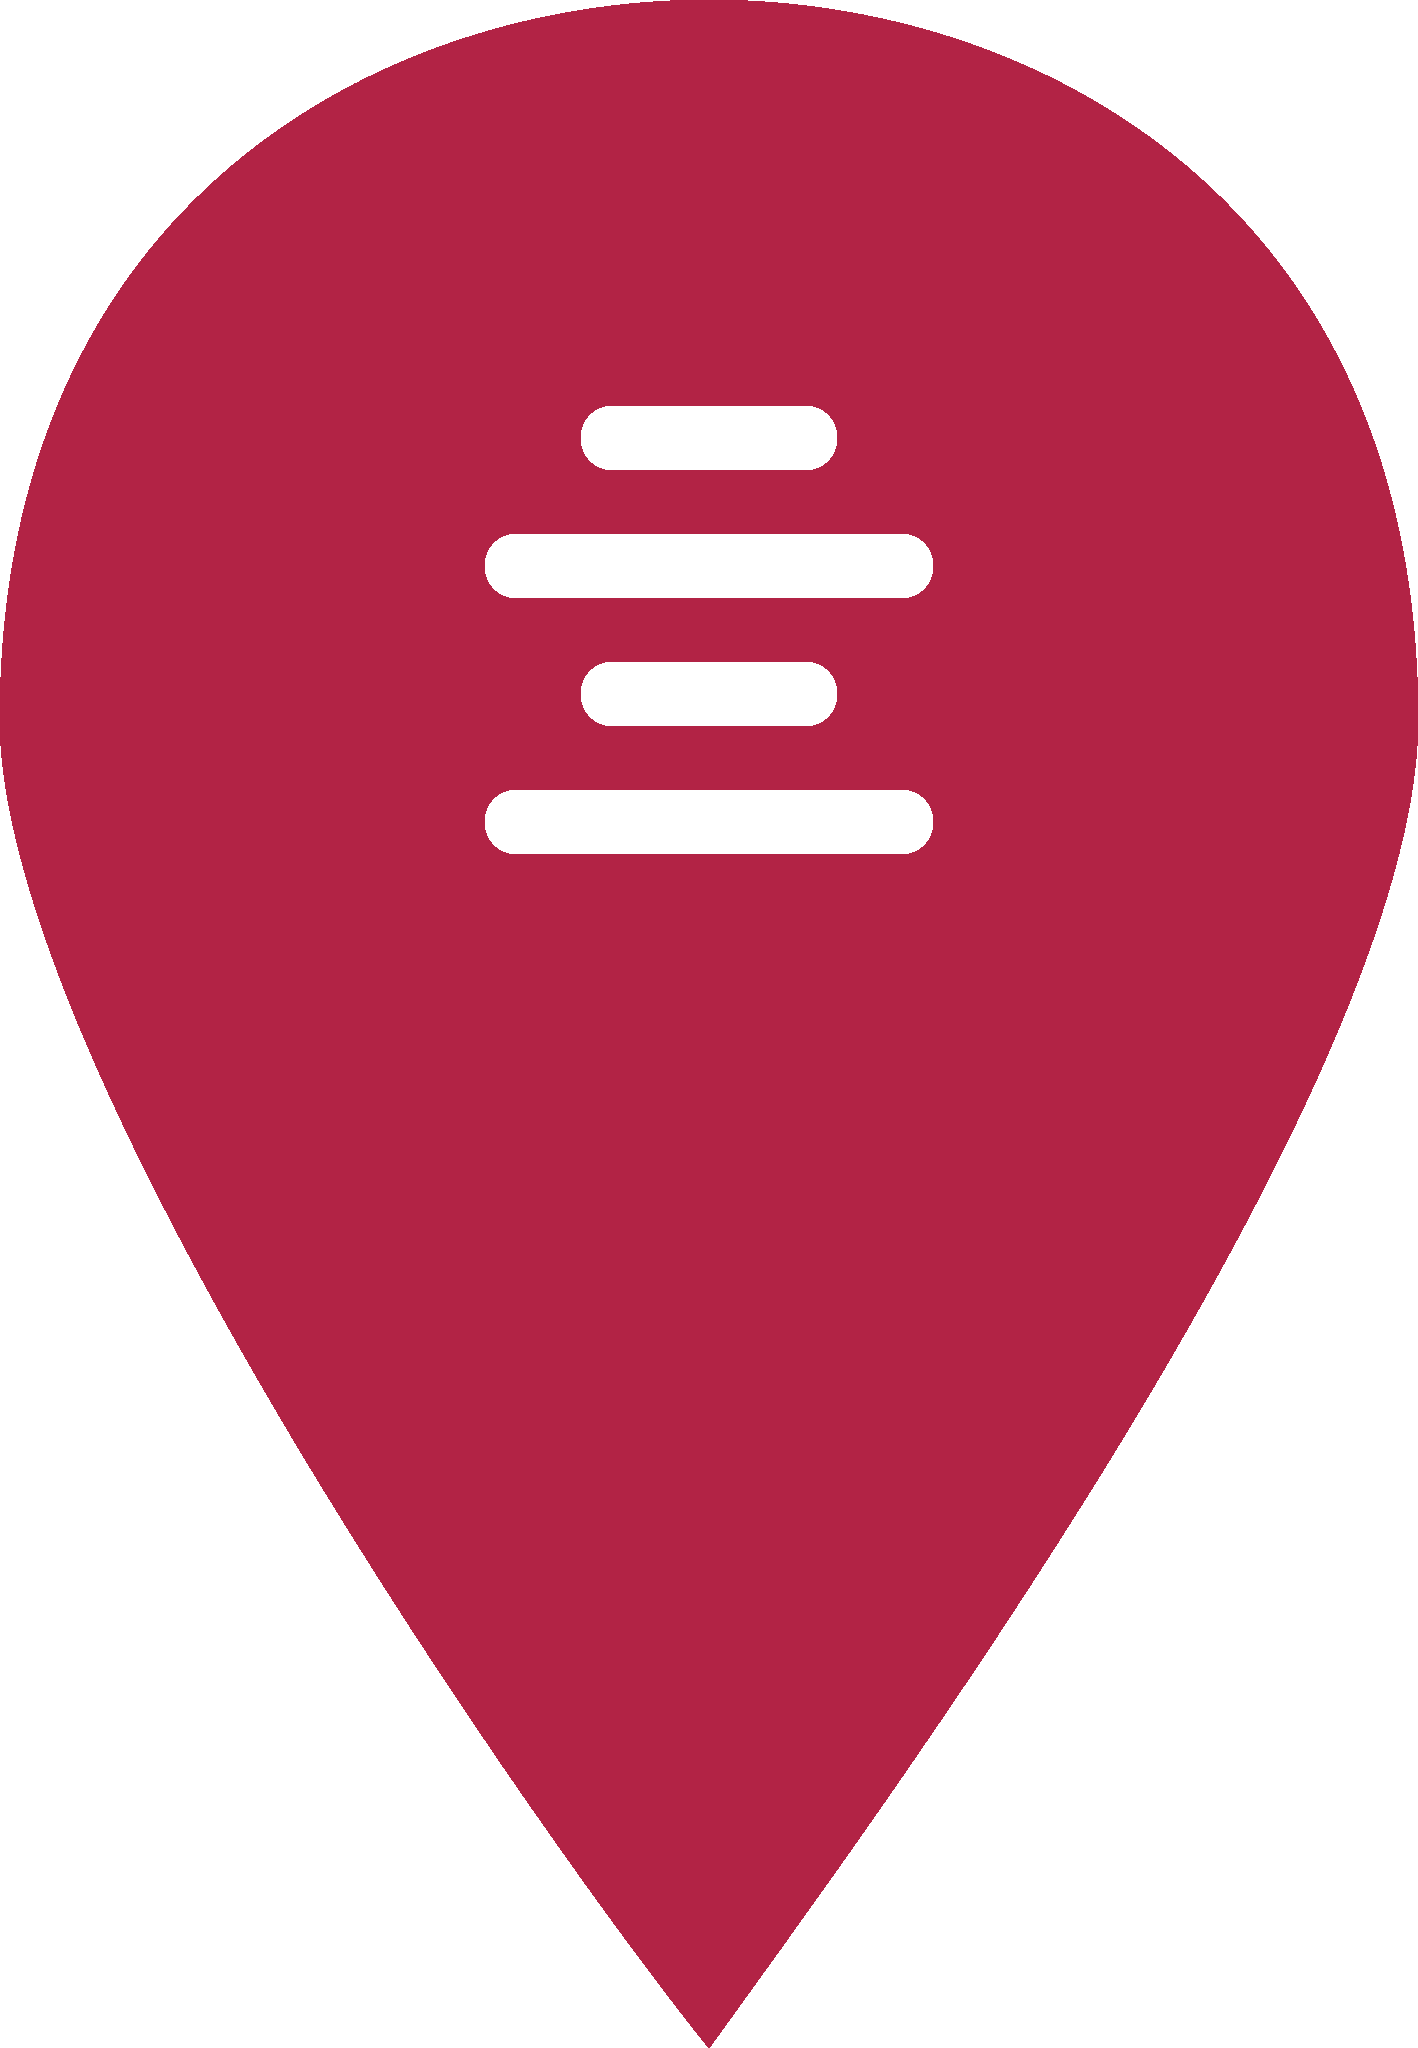
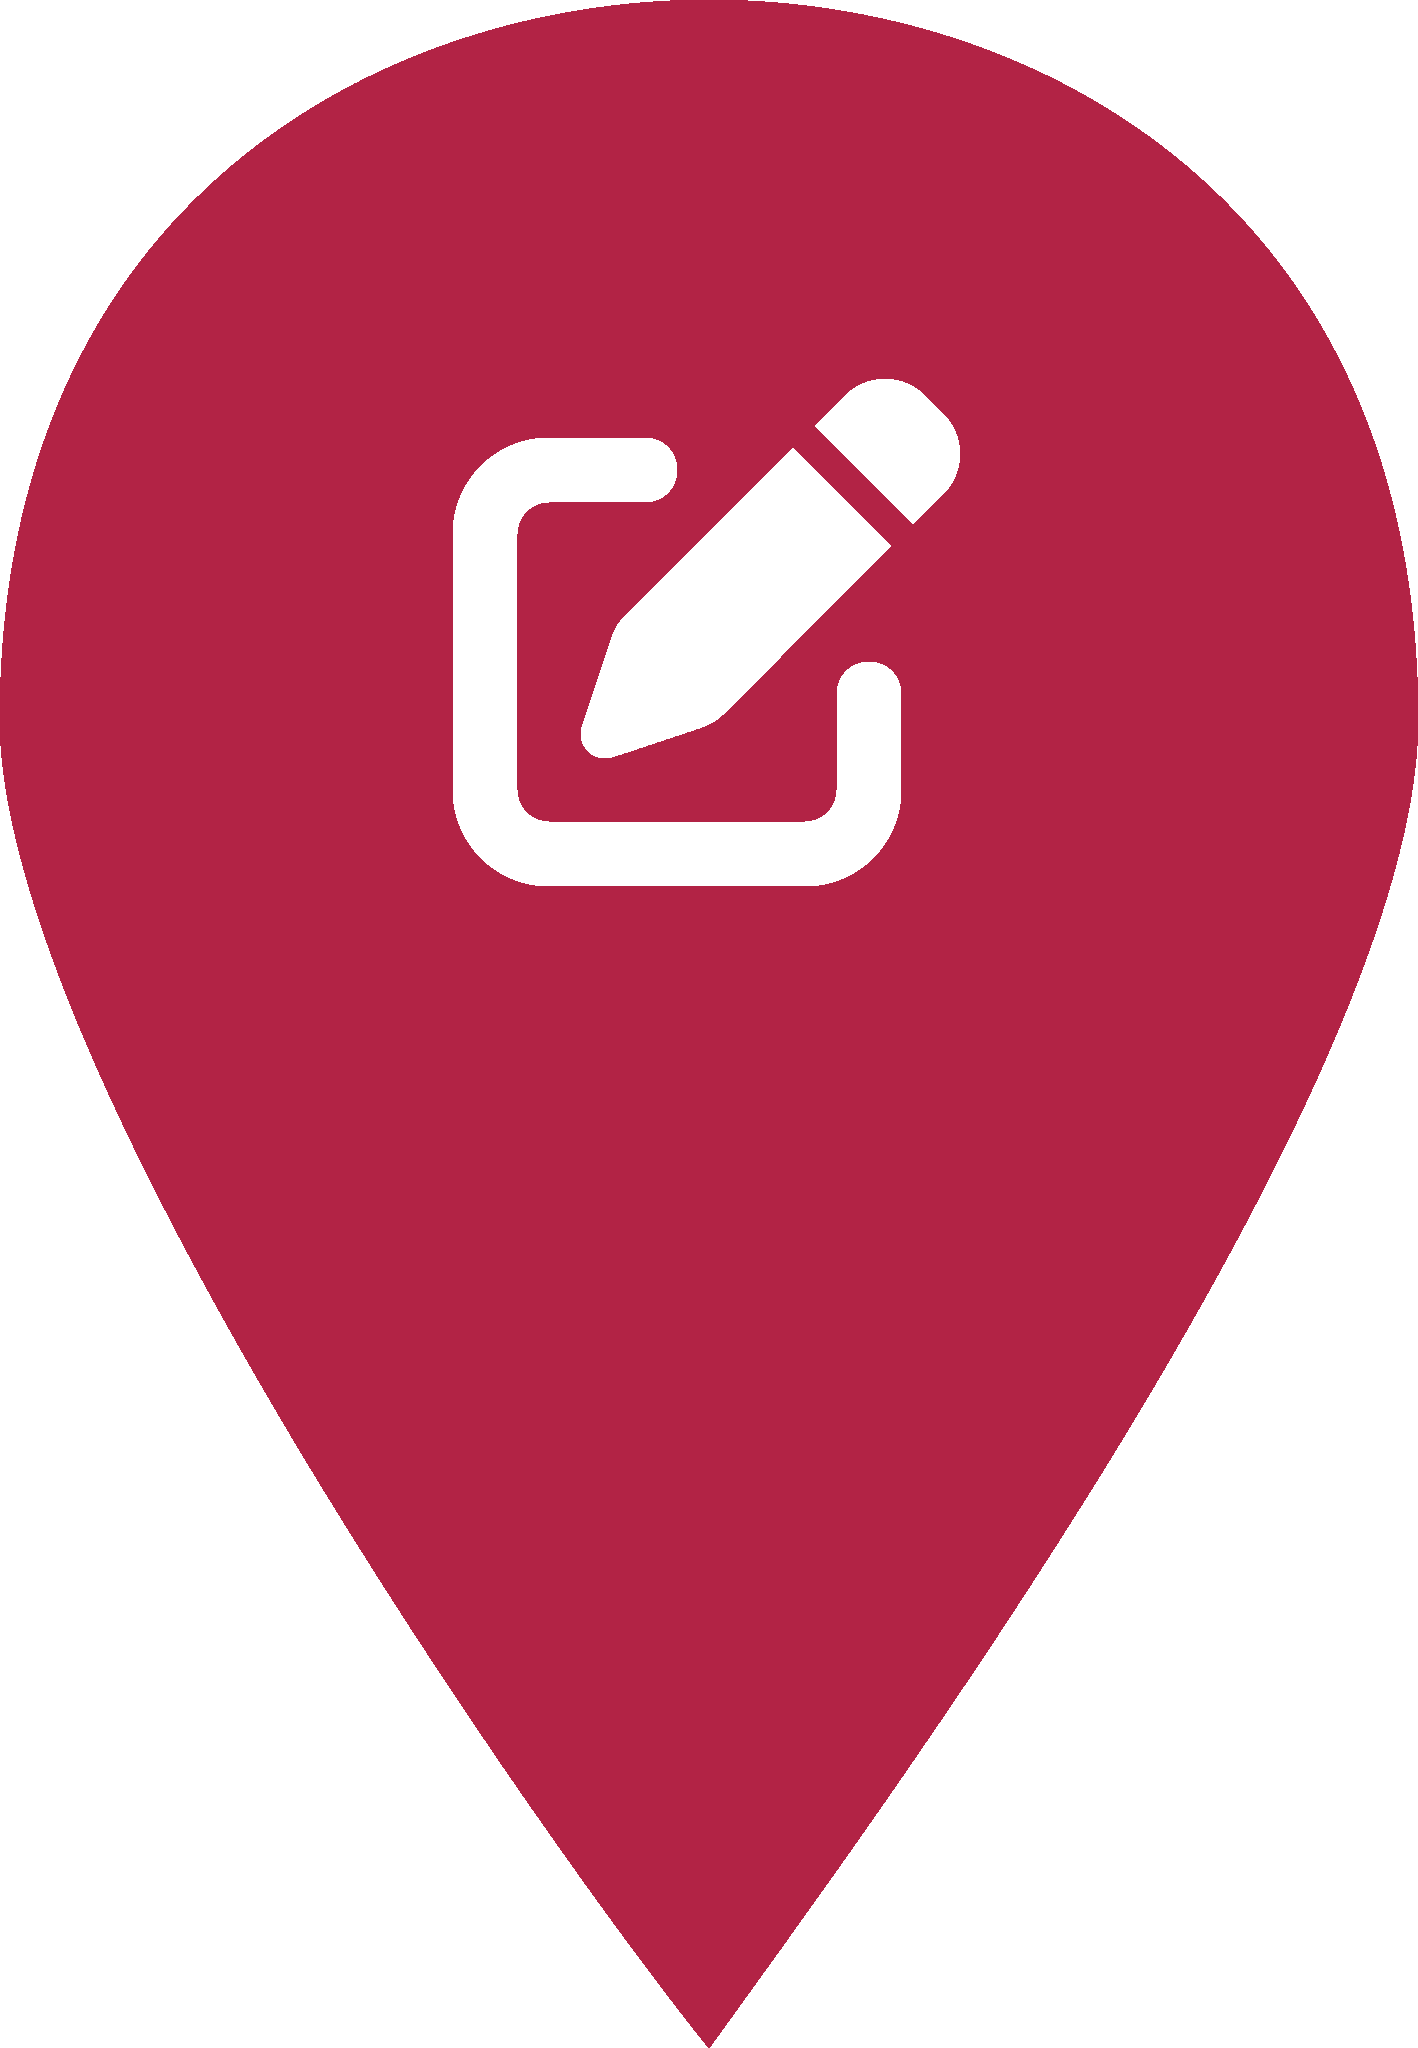
The map now dynamically updates the map to display study sessions with pins that represent the subject being studied.

Changed region(s): [[0.3103, 0.1875, 0.6827, 0.4375]]

diff --git a/scripts/main.js b/scripts/main.js
@@ -99,8 +99,6 @@ function updateLength(length) {
 }
 
 // Fetch all sessions and populate the map
-
-
 async function loadSessions(map) {
     try {
         const response = await fetch('http://localhost:8000/sessions');
@@ -118,77 +116,86 @@ async function loadSessions(map) {
 }
 
 function addSessionPins(map, sessions) {
-
     const features = sessions.map(session => {
-        const { geolocation, length, ownerName, ownerEmail } = session;
+        const { geolocation, length, ownerName, ownerEmail, subject } = session;
         if (!geolocation) return null;
 
         return {
-            'type': 'Feature',
-            'properties': {
-                'description': `Session of ${length} minutes`,
-                'owner': ownerName,
-                'email': ownerEmail
+            type: 'Feature',
+            properties: {
+                description: `Session of ${length} minutes`,
+                owner: ownerName,
+                email: ownerEmail,
+                subject: subject || 'default'
             },
-            'geometry': {
-                'type': 'Point',
-                'coordinates': [geolocation.longitude, geolocation.latitude]
+            geometry: {
+                type: 'Point',
+                coordinates: [geolocation.longitude, geolocation.latitude]
             }
         };
     }).filter(feature => feature !== null);
 
-    map.on('load', () => {
+    map.on('load', async () => {
+        const sessionSubjects = ["math", "writing", "business", "computer", "art", "trades", "default"];
 
-        map.loadImage(
-            'http://localhost:8000/images/default_pin.png',
-            (error, image) => {
-                if (error) throw error;
-
-                // Add the image to the map style.
-                map.addImage('default_pin', image);
-                // Add features (pins) to the map
-                map.addSource('sessions', {
-                    'type': 'geojson',
-                    'data': {
-                        'type': 'FeatureCollection',
-                        'features': features
-                    }
-                });
-
-                map.addLayer({
-                    'id': 'session-pins',
-                    'type': 'symbol',
-                    'source': 'sessions',
-                    'layout': {
-                        'icon-image': 'default_pin', // reference the image
-                        'icon-size': 0.025,
-                        'icon-rotate': 180
-                    }
-                });
-
-                // Create popups for session markers
-                map.on('click', 'session-pins', (e) => {
-                    const coordinates = e.features[0].geometry.coordinates.slice();
-                    const { description, owner, email } = e.features[0].properties;
-
-                    new mapboxgl.Popup()
-                        .setLngLat(coordinates)
-                        .setHTML(`${description} created by ${owner} (${email})`)
-                        .addTo(map);
-                });
-
-                // Change the cursor to a pointer when hovering over the pins
-                map.on('mouseenter', 'session-pins', () => {
-                    map.getCanvas().style.cursor = 'pointer';
-                });
-
-                // Reset cursor when not hovering
-                map.on('mouseleave', 'session-pins', () => {
-                    map.getCanvas().style.cursor = '';
-                });
-            });
+        try {
+            await Promise.all(sessionSubjects.map(subject => loadImageToMap(map, subject)));
+            addSessionPinsLayer(map, features);
+        } catch (error) {
+            console.error("Error loading images:", error);
+        }
     });
 }
+
+function loadImageToMap(map, subject) {
+    return new Promise((resolve, reject) => {
+        map.loadImage(`http://localhost:8000/images/${subject}_pin.png`, (error, image) => {
+            if (error) return reject(error);
+            map.addImage(`${subject}_pin`, image);
+            resolve();
+        });
+    });
+}
+
+function addSessionPinsLayer(map, features) {
+    map.addSource('sessions', {
+        type: 'geojson',
+        data: {
+            type: 'FeatureCollection',
+            features: features
+        }
+    });
+
+    map.addLayer({
+        id: 'session-pins',
+        type: 'symbol',
+        source: 'sessions',
+        layout: {
+            'icon-image': ['concat', ['get', 'subject'], '_pin'],
+            'icon-size': 0.025,
+            'icon-rotate': 180
+        }
+    });
+
+    map.on('click', 'session-pins', (e) => {
+        const coordinates = e.features[0].geometry.coordinates.slice();
+        const { description, owner, email } = e.features[0].properties;
+
+        new mapboxgl.Popup()
+            .setLngLat(coordinates)
+            .setHTML(`${description} created by ${owner} (${email})`)
+            .addTo(map);
+    });
+
+    map.on('mouseenter', 'session-pins', () => {
+        map.getCanvas().style.cursor = 'pointer';
+    });
+
+    map.on('mouseleave', 'session-pins', () => {
+        map.getCanvas().style.cursor = '';
+    });
+}
+
 
 // Update the initializeMap function to call loadSession
 function initializeMap(coords) {
@@ -211,6 +218,11 @@ function initializeMap(coords) {
     getClickedLocation(map, (clickedLocation) => {
         getRoute(map, userLocation, clickedLocation);
     });
+}
+
+// Load all of the session pin images in this function.
+function loadSessionPinImages(map, session) {
+
 }
 
 // ---------------------------------------------------------------------

diff --git a/backend/models/Session.js b/backend/models/Session.js
@@ -10,7 +10,8 @@ const sessionSchema = new mongoose.Schema({
     length: { type: String, required: true },
     timestamp: { type: Date, required: true },
     members: [{ type: String, required: true }], // Array of userIds
-    course: { type: String, default: null } // Optional course field
+    course: { type: String, default: null}, // Optional course field
+    subject: {type: String, default: null}
 });
 
 module.exports = mongoose.model("Session", sessionSchema);
